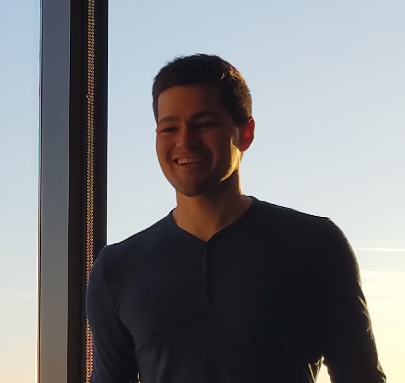
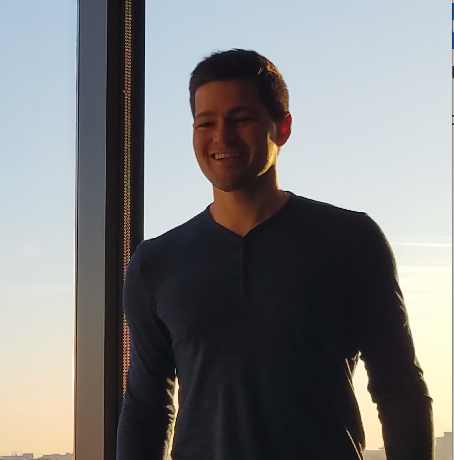
add images to software

diff --git a/content/project/eventStudy/index.md b/content/project/eventStudy/index.md
@@ -7,11 +7,11 @@ publishDate: "2019-01-02T00:00:00Z"
 summary: R package and guide for performing event studies with heterogeneous dynamic effects. 
 
 image:
-  placement: 1
-  caption: "Photo by [Academic](https://sourcethemes.com/academic/)"
-  focal_point: "Center"
+  placement: 2
+  caption: ""
+  focal_point: "Bottom"
   preview_only: false
-  alt_text: An optional description of the image for screen readers.
+  alt_text: 
 
 # links:
 # - name: ""
@@ -29,12 +29,12 @@ url_video: ''
 
 `eventStudy` is an R package and guide for performing event studies with heterogeneous dynamic effects. It provides point estimates and standard errors for average treatment effects on the treated (ATT) parameters that vary by treatment cohort and event time.
 
-The package provides a single command that handles everything automatically, including complicated data manipulation and regression steps, such as:
+The package provides a single command that handles all steps automatically, including complicated data manipulation and regression steps, such as:
 - "stacking" control units and employing a fully-interacted regression to estimate the various ATTs,
 - correcting for anticipation and deviations from parallel trends using parametric and non-parametric approaches,
 - providing various summary ATT estimates collapsed across treatment cohorts and/or event times with appropriate clustered standard errors.
 
-Simply install using `devtools::install_github("setzler/eventStudy/eventStudy")`, then the entire data preparation and estimation process is performed in one line using the `ES` command.
+Simply install with `devtools::install_github("setzler/eventStudy/eventStudy")`, then the entire data preparation and estimation process is performed in one line of code using the `ES()` function.
 
-Papers using this software include:
+The event studies in the following papers were estimated with this software:
 - "Imperfect Competition and Rents in Labor and Product Markets: The Case of the Construction Industry," by Kroft, Luo, Mogstad, and Setzler

diff --git a/content/project/textables/index.md b/content/project/textables/index.md
@@ -4,14 +4,14 @@ title: "textables"
 publishDate: "2018-07-14T00:00:00Z"
 
 # Summary. An optional shortened abstract.
-summary: R package for producing highly-customized LaTeX tables.
+summary: R package for automatically producing highly-customized LaTeX tables.
 
 image:
-  placement: 1
-  caption: "Photo by [Academic](https://sourcethemes.com/academic/)"
-  focal_point: "Center"
+  placement: 2
+  caption: ""
+  focal_point: "Bottom"
   preview_only: false
-  alt_text: An optional description of the image for screen readers.
+  alt_text: 
 
 # links:
 # - name: ""
@@ -27,11 +27,15 @@ url_video: ''
 
 ---
 
-`textables` is an R package for producing highly-customized LaTeX tables.
+`textables` is an R package for automatically producing highly-customized LaTeX tables.
 
-Simply install using `devtools::install_github("setzler/textables")`, then the entire data preparation and estimation process is performed in one line using the `ES` command.
+Simply install using `devtools::install_github("setzler/textables")`, then:
+- `TR()` creates a LaTeX table row,
+- `%:%` concatenates rows horizontally,
+- `+` stacks rows vertically, and,
+- `TS()` exports the table into LaTeX and compiled PDF files.
 
-100% of the tables in these papers were made using `textables`:
+All of the tables in these papers were made using `textables`:
 - "Imperfect Competition, Compensating Differentials and Rent Sharing in the U.S. Labor Market," by Lamadon, Mogstad, and Setzler.
 - "The Effects of Foreign Multinationals on Workers and Firms in the United States," by Setzler and Tintelnot.
 - "Imperfect Competition and Rents in Labor and Product Markets: The Case of the Construction Industry," by Kroft, Luo, Mogstad, and Setzler.

diff --git a/content/project/_index.md b/content/project/_index.md
@@ -6,7 +6,7 @@ title: Software
 #   2 = Compact
 #   3 = Card
 #   4 = Citation
-view: 5
+view: 1
 
 # Optional header image (relative to `static/img/` folder).
 header:
